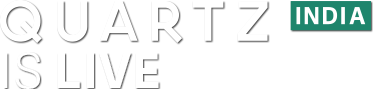
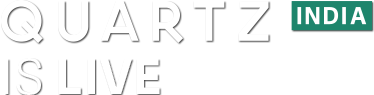
adding changes to the qz mobile

diff --git a/2014-06-05/mobile/css/style.css b/2014-06-05/mobile/css/style.css
@@ -16,7 +16,7 @@ img { display: block; }
 #qzad .image-holder img { display: block; position: absolute; top: 0; width: 320px; -webkit-transition: all 3s ease; -moz-transition: all 3s ease; -ms-transition: all 3s ease; -o-transition: all 3s ease; transition: all 3s ease; opacity: 1; }
 #qzad .image-holder img.fadeOut { -webkit-animation-name: fadeOut; animation-name: fadeOut; -webkit-animation-duration: 3s; animation-duration: 3s; -webkit-animation-timing-function: ease; -moz-animation-timing-function: ease; animation-timing-function: ease; opacity: 0; }
 #qzad #bottom { position: absolute; bottom: 0; top: 57px; left: 0; right: 0; height: 75px; background: black url(../images/bg-circles.jpg) top right no-repeat; background-size: 101px; }
-#qzad #bottom .cta { display: block; position: absolute; left: 12px; top: 65px; width: 205px; }
+#qzad #bottom .cta { display: block; position: absolute; left: 12px; top: 64px; width: 188px; }
 #qzad #bottom .cta img { width: 100%; }
 #qzad #bottom div { position: absolute; top: 0; left: 12px; }
 #qzad #bottom div.head { width: 187px; top: 10px; }

diff --git a/2014-06-05/mobile/scss/style.scss b/2014-06-05/mobile/scss/style.scss
@@ -87,8 +87,8 @@ img{
 			display: block;
 			position: absolute;
 			left:12px;
-			top:65px;
-			width: 205px;
+			top:64px;
+			width: 188px;
 			img{
 
 				width: 100%;
